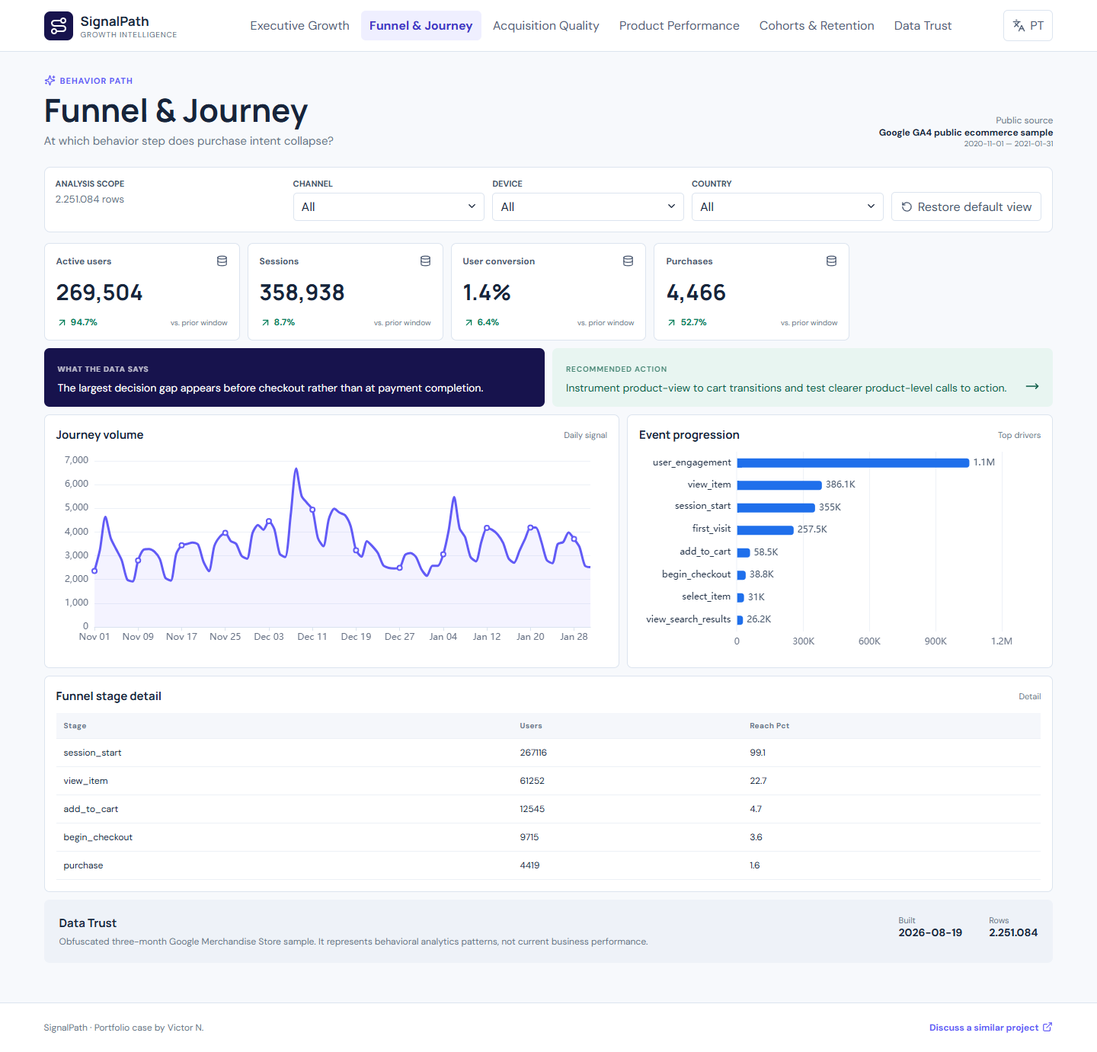
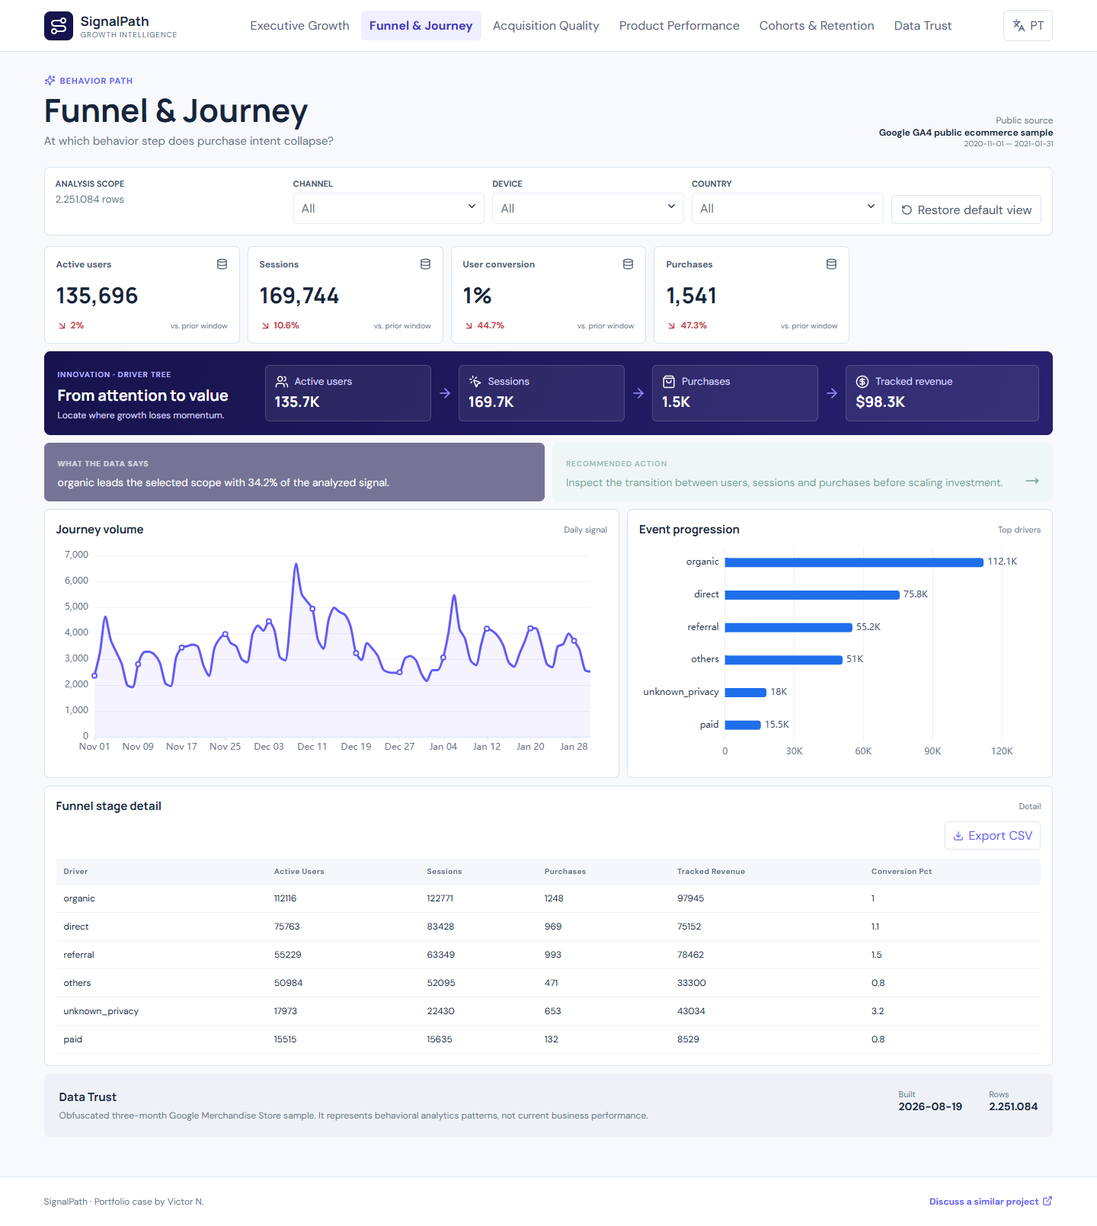
Improve growth storytelling and filter consistency

diff --git a/src/App.tsx b/src/App.tsx
@@ -4,6 +4,7 @@ import { BarChart, DataGrid, DecisionNote, MetricCard, TrendChart } from './comp
 import { ui } from './i18n'
 import { MartVerifier } from './MartVerifier'
 import { queryMart, type MartResult } from './queryMart'
+import { GrowthDriverTree } from './innovation'
 import type { DashboardData, Lang } from './types'
 
 export default function App() {
@@ -12,24 +13,32 @@ export default function App() {
   const [pageId, setPageId] = useState('executive')
   const [filters, setFilters] = useState({ channel: '', device: '', country: '' })
   const [mart, setMart] = useState<MartResult | null>(null)
+  const [queryState, setQueryState] = useState<'loading'|'ready'|'error'>('loading')
   useEffect(() => { fetch('./data/dashboard.json').then(r => r.json()).then(setData) }, [])
   useEffect(() => { localStorage.setItem('signalpath-lang', lang); document.documentElement.lang = lang === 'pt' ? 'pt-BR' : 'en' }, [lang])
-  useEffect(() => { let active=true; if (!filters.channel && !filters.device && !filters.country) { setMart(null); return }; queryMart(filters).then(result => active && setMart(result)).catch(error => { console.error('Unable to query the local analytics mart', error); if (active) setMart(null) }); return () => { active=false } }, [filters.channel, filters.device, filters.country])
+  useEffect(() => { let active=true; setQueryState('loading'); queryMart(filters,pageId).then(result=>{if(active){setMart(result);setQueryState('ready')}}).catch(error=>{console.error(error);if(active)setQueryState('error')});return()=>{active=false} }, [filters.channel, filters.device, filters.country, pageId])
   if (!data) return <main className="loading"><Activity className="spin" /> Loading SignalPath...</main>
   const page = data.pages.find(p => p.id === pageId) ?? data.pages[0]
   const metrics = page.metrics.map(metric => mart?.current[metric.id] === undefined ? metric : { ...metric, value: mart.current[metric.id], previous: mart.previous[metric.id] ?? metric.previous })
   const trend = mart?.trend.length ? mart.trend : page.trend
+  const breakdown = mart?.breakdown.length ? mart.breakdown : page.breakdown
+  const detail = mart?.detail.length ? mart.detail : page.detail
+  const finding = mart ? (lang==='pt'?`${mart.context.topDriver} lidera o recorte com ${(mart.context.topShare*100).toFixed(1)}% do sinal analisado.`:`${mart.context.topDriver} leads the selected scope with ${(mart.context.topShare*100).toFixed(1)}% of the analyzed signal.`) : page.finding[lang]
+  const action = mart ? (lang==='pt'?'Investigue a passagem entre usuários, sessões e compras antes de ampliar investimento.':'Inspect the transition between users, sessions and purchases before scaling investment.') : page.action[lang]
   const t = ui[lang]
-  const select = (label: string, key: keyof typeof filters, values: string[]) => <label className="filter"><span>{label}</span><div><select value={filters[key]} onChange={e => setFilters(v => ({ ...v, [key]: e.target.value }))}><option value="">{t.all}</option>{values.map(v => <option key={v}>{v}</option>)}</select><ChevronDown size={15} /></div></label>
+  const driverValues=Object.fromEntries(metrics.map(metric=>[metric.id,metric.value]))
+  const select = (label: string, key: keyof typeof filters, values: string[]) => <label className="filter"><span>{label}</span><div><select disabled={queryState==='loading'} value={filters[key]} onChange={e => setFilters(v => ({ ...v, [key]: e.target.value }))}><option value="">{t.all}</option>{values.map(v => <option key={v}>{v}</option>)}</select><ChevronDown size={15} /></div></label>
   return <div className="app-shell">
     <header className="topbar"><a className="brand" href="#top"><span className="brand-mark"><Route /></span><span><b>SignalPath</b><small>Growth Intelligence</small></span></a><nav>{data.pages.map(p => <button className={p.id === page.id ? 'active' : ''} onClick={() => setPageId(p.id)} key={p.id}>{p.title[lang]}</button>)}</nav><button className="language" onClick={() => setLang(lang === 'en' ? 'pt' : 'en')}><Languages size={17} />{lang === 'en' ? 'PT' : 'EN'}</button></header>
     <main id="top">
       <section className="page-head"><div><span className="eyebrow"><Sparkles size={15} />{page.eyebrow[lang]}</span><h1>{page.title[lang]}</h1><p>{page.question[lang]}</p></div><div className="source-stamp"><span>{t.source}</span><b>{data.meta.source}</b><small>{data.meta.period}</small></div></section>
       <section className="filterbar"><div className="filter-heading"><span>{t.filters}</span><small>{data.meta.rows.toLocaleString()} rows</small></div>{select(t.channel, 'channel', data.filters.channels)}{select(t.device, 'device', data.filters.devices)}{select(t.country, 'country', data.filters.countries)}<button className="reset" onClick={() => setFilters({ channel: '', device: '', country: '' })}><RotateCcw size={15} />{t.reset}</button></section>
       <section className="metrics">{metrics.map(metric => <MetricCard key={metric.id} metric={metric} lang={lang} prior={t.prior} />)}</section>
-      <section className="decision-strip"><DecisionNote title={t.finding}>{page.finding[lang]}</DecisionNote><DecisionNote title={t.action} action>{page.action[lang]}</DecisionNote></section>
-      <section className="analysis-grid"><article className="panel wide"><div className="panel-title"><h2>{page.trendTitle[lang]}</h2><span>Daily signal</span></div><TrendChart data={trend} lang={lang} /></article><article className="panel"><div className="panel-title"><h2>{page.breakdownTitle[lang]}</h2><span>Top drivers</span></div><BarChart data={page.breakdown} lang={lang} /></article></section>
-      <section className="panel detail"><div className="panel-title"><h2>{page.detailTitle[lang]}</h2><span>{t.details}</span></div><DataGrid rows={page.detail} /></section>
+      {queryState==='error'&&<div className="query-error" role="alert">{lang==='pt'?'O recorte não pôde ser recalculado. A visão base foi mantida.':'The selected scope could not be recalculated. The baseline view is shown.'}</div>}
+      <GrowthDriverTree values={mart?.current??driverValues} lang={lang}/>
+      <section className={`decision-strip ${queryState==='loading'?'is-loading':''}`}><DecisionNote title={t.finding}>{finding}</DecisionNote><DecisionNote title={t.action} action>{action}</DecisionNote></section>
+      <section className="analysis-grid"><article className="panel wide"><div className="panel-title"><h2>{page.trendTitle[lang]}</h2><span>Daily signal</span></div><TrendChart data={trend} lang={lang} /></article><article className="panel"><div className="panel-title"><h2>{page.breakdownTitle[lang]}</h2><span>Top drivers</span></div><BarChart data={breakdown} lang={lang} /></article></section>
+      <section className="panel detail"><div className="panel-title"><h2>{page.detailTitle[lang]}</h2><span>{t.details}</span></div><DataGrid rows={detail} /></section>
       <section className="trust"><div><h2>{t.trust}</h2><p>{data.meta.limitations[lang]}</p>{page.id === 'trust' && <MartVerifier file="mart_growth_sessions.parquet" lang={lang}/>}</div><div><span>Built</span><b>{data.meta.builtAt}</b></div><div><span>Rows</span><b>{data.meta.rows.toLocaleString()}</b></div></section>
     </main>
     <footer><span>SignalPath · Portfolio case by Victor N.</span><a href="mailto:comercial@wickoai.com.br">{t.contact}<ExternalLink size={14} /></a></footer>

diff --git a/src/queryMart.ts b/src/queryMart.ts
@@ -1,35 +1,45 @@
-import type { SeriesPoint } from './types'
+import type { BreakdownRow, SeriesPoint } from './types'
 
 export type FilterState = { channel: string; device: string; country: string }
-export type MartResult = { current: Record<string, number>; previous: Record<string, number>; trend: SeriesPoint[] }
+export type MartResult = {
+  current: Record<string, number>; previous: Record<string, number>; trend: SeriesPoint[]
+  breakdown: BreakdownRow[]; detail: Record<string, string | number>[]
+  context: { topDriver: string; topShare: number; rows: number }
+}
 
 let connectionPromise: Promise<import('@duckdb/duckdb-wasm').AsyncDuckDBConnection> | undefined
 const literal = (value: string) => `'${value.replaceAll("'", "''")}'`
 
 async function connection() {
   if (!connectionPromise) connectionPromise = (async () => {
-    const duckdb = await import('@duckdb/duckdb-wasm')
-    const bundle = await duckdb.selectBundle(duckdb.getJsDelivrBundles())
+    const duckdb = await import('@duckdb/duckdb-wasm'); const bundle = await duckdb.selectBundle(duckdb.getJsDelivrBundles())
     const workerUrl = URL.createObjectURL(new Blob([`importScripts("${bundle.mainWorker!}");`], { type: 'text/javascript' }))
-    const db = new duckdb.AsyncDuckDB(new duckdb.ConsoleLogger(), new Worker(workerUrl))
-    await db.instantiate(bundle.mainModule, bundle.pthreadWorker)
+    const db = new duckdb.AsyncDuckDB(new duckdb.ConsoleLogger(), new Worker(workerUrl)); await db.instantiate(bundle.mainModule, bundle.pthreadWorker)
     await db.registerFileURL('growth.parquet', new URL('./data/mart_growth_sessions.parquet', window.location.href).href, duckdb.DuckDBDataProtocol.HTTP, false)
     return db.connect()
   })()
   return connectionPromise
 }
 
-export async function queryMart(filters: FilterState): Promise<MartResult> {
+const records = (table: { toArray: () => Record<string, unknown>[] }) => table.toArray().map(row => Object.fromEntries(Object.entries(row).map(([key, value]) => [key, typeof value === 'bigint' ? Number(value) : value]))) as Record<string, string | number>[]
+
+let queryQueue: Promise<void> = Promise.resolve()
+export function queryMart(filters: FilterState, pageId: string): Promise<MartResult> {
+  const result = queryQueue.then(() => runQuery(filters, pageId))
+  queryQueue = result.then(() => undefined, () => undefined)
+  return result
+}
+async function runQuery(filters: FilterState, pageId: string): Promise<MartResult> {
   const con = await connection()
   const clauses = [filters.channel && `channel=${literal(filters.channel)}`, filters.device && `device=${literal(filters.device)}`, filters.country && `country=${literal(filters.country)}`].filter(Boolean)
   const where = clauses.length ? `where ${clauses.join(' and ')}` : ''
   const metricSql = (period: 'current'|'previous') => `with base as (select * from read_parquet('growth.parquet') ${where}), bounds as (select min(event_date) lo,max(event_date) hi from base), scoped as (select b.* from base b,bounds where event_date ${period === 'current' ? '>=' : '<'} lo+((hi-lo)/2)::integer) select count(distinct user_id)::double users,count(*)::double sessions,count(distinct user_id) filter(where purchased=1)::double purchasers,sum(purchases)::double orders,sum(revenue)::double revenue,count(distinct event_date)::double active_days from scoped`
-  const readMetrics = async (sql: string) => {
-    const row = (await con.query(sql)).get(0) as Record<string, unknown>
-    const users=Number(row.users??0), purchasers=Number(row.purchasers??0)
-    return { users, sessions:Number(row.sessions??0), conversion:users?purchasers/users:0, orders:Number(row.orders??0), revenue:Number(row.revenue??0), days:Number(row.active_days??0) }
-  }
-  const current=await readMetrics(metricSql('current')), previous=await readMetrics(metricSql('previous'))
-  const table=await con.query(`select strftime(event_date,'%b %d') as period_label,count(distinct user_id)::double as metric_value from read_parquet('growth.parquet') ${where} group by event_date order by event_date`)
-  return { current, previous, trend: table.toArray().map(row => ({ label:String(row.period_label), value:Number(row.metric_value) })) }
+  const readMetrics = async (sql: string) => { const row=(await con.query(sql)).get(0) as Record<string,unknown>; const users=Number(row.users??0),purchasers=Number(row.purchasers??0); return {users,sessions:Number(row.sessions??0),conversion:users?purchasers/users:0,orders:Number(row.orders??0),revenue:Number(row.revenue??0),days:Number(row.active_days??0)} }
+  const current=await readMetrics(metricSql('current')),previous=await readMetrics(metricSql('previous'))
+  const trendTable=await con.query(`select strftime(event_date,'%b %d') period_label,count(distinct user_id)::double metric_value from read_parquet('growth.parquet') ${where} group by event_date order by event_date`)
+  const dimension=pageId==='retention'?'device':pageId==='trust'?'country':'channel'
+  const breakdownTable=await con.query(`select ${dimension} as driver_name,count(distinct user_id)::double as driver_value from read_parquet('growth.parquet') ${where} group by 1 order by driver_value desc limit 12`)
+  const detailTable=await con.query(`select ${dimension} driver,count(distinct user_id)::double active_users,count(*)::double sessions,sum(purchases)::double purchases,round(sum(revenue),2)::double tracked_revenue,round(100*count(distinct user_id) filter(where purchased=1)/nullif(count(distinct user_id),0),1)::double conversion_pct from read_parquet('growth.parquet') ${where} group by 1 order by active_users desc limit 20`)
+  const detail=records(detailTable),breakdown=records(breakdownTable).map(row=>({name:String(row.driver_name??'Unknown'),value:Number(row.driver_value??0)})); const total=breakdown.reduce((sum,row)=>sum+row.value,0)
+  return {current,previous,trend:trendTable.toArray().map(row=>({label:String(row.period_label),value:Number(row.metric_value)})),breakdown,detail,context:{topDriver:breakdown[0]?.name??'N/A',topShare:total?breakdown[0].value/total:0,rows:current.sessions}}
 }

diff --git a/src/components.tsx b/src/components.tsx
@@ -5,8 +5,9 @@ import { BarChart as EBarChart, LineChart as ELineChart } from 'echarts/charts'
 import { GridComponent, TooltipComponent } from 'echarts/components'
 import { CanvasRenderer } from 'echarts/renderers'
 import { LegacyGridContainLabel } from 'echarts/features'
-import { flexRender, getCoreRowModel, useReactTable } from '@tanstack/react-table'
-import { ArrowDownRight, ArrowUpRight, Database, MoveRight } from 'lucide-react'
+import { flexRender, getCoreRowModel, getSortedRowModel, useReactTable, type SortingState } from '@tanstack/react-table'
+import { ArrowDownRight, ArrowUpRight, Database, Download, MoveRight } from 'lucide-react'
+import { useState } from 'react'
 import type { Lang, Metric, SeriesPoint, BreakdownRow } from './types'
 
 echarts.use([EBarChart, ELineChart, GridComponent, TooltipComponent, LegacyGridContainLabel, CanvasRenderer])
@@ -31,20 +32,23 @@ export function MetricCard({ metric, lang, prior }: { metric: Metric; lang: Lang
 
 export function TrendChart({ data, lang }: { data: SeriesPoint[]; lang: Lang }) {
   const option = { animationDuration: 450, grid: { left: 12, right: 22, top: 24, bottom: 18, containLabel: true }, tooltip: { trigger: 'axis', valueFormatter: (v: number) => new Intl.NumberFormat(lang === 'pt' ? 'pt-BR' : 'en-US').format(v) }, xAxis: { type: 'category', data: data.map(d => d.label), boundaryGap: false, axisLine: { lineStyle: { color: '#d9e2ef' } }, axisLabel: { color: '#697386' } }, yAxis: { type: 'value', splitLine: { lineStyle: { color: '#edf1f7' } }, axisLabel: { color: '#697386' } }, series: [{ type: 'line', data: data.map(d => d.value), smooth: .25, symbolSize: 6, lineStyle: { width: 3, color: '#625bf6' }, itemStyle: { color: '#625bf6' }, areaStyle: { color: 'rgba(98,91,246,.10)' } }] }
-  return <ReactEChartsCore echarts={echarts} option={option} style={{ height: 280 }} />
+  return <div className="chart-viewport"><ReactEChartsCore echarts={echarts} option={option} style={{ height: 300, width:'100%' }} /></div>
 }
 
 export function BarChart({ data, lang }: { data: BreakdownRow[]; lang: Lang }) {
   const sorted = [...data].sort((a,b) => a.value - b.value).slice(-8)
   const compact = (value: number) => new Intl.NumberFormat(lang === 'pt' ? 'pt-BR' : 'en-US', { notation: 'compact', maximumFractionDigits: 1 }).format(value)
   const option = { animationDuration: 450, grid: { left: 12, right: 52, top: 12, bottom: 12, containLabel: true }, tooltip: { trigger: 'axis', axisPointer: { type: 'shadow' } }, xAxis: { type: 'value', splitNumber: 4, splitLine: { lineStyle: { color: '#edf1f7' } }, axisLabel: { color: '#697386', formatter: compact } }, yAxis: { type: 'category', data: sorted.map(d => d.name), axisLine: { show: false }, axisTick: { show: false }, axisLabel: { color: '#27364b', width: 120, overflow: 'truncate' } }, series: [{ type: 'bar', data: sorted.map(d => d.value), barWidth: 12, itemStyle: { color: '#1f6feb', borderRadius: [0, 4, 4, 0] }, label: { show: true, position: 'right', color: '#415269', formatter: (p: { value: number }) => compact(p.value) } }] }
-  return <ReactEChartsCore echarts={echarts} option={option} style={{ height: 280 }} />
+  return <div className="chart-viewport"><ReactEChartsCore echarts={echarts} option={option} style={{ height: 300, width:'100%' }} /></div>
 }
 
 export function DataGrid({ rows }: { rows: Record<string, string | number>[] }) {
+  const [sorting,setSorting]=useState<SortingState>([])
   const columns = useMemo(() => Object.keys(rows[0] ?? {}).map(key => ({ accessorKey: key, header: key.replaceAll('_', ' ') })), [rows])
-  const table = useReactTable({ data: rows, columns, getCoreRowModel: getCoreRowModel() })
-  return <div className="table-wrap"><table><thead>{table.getHeaderGroups().map(group => <tr key={group.id}>{group.headers.map(h => <th key={h.id}>{flexRender(h.column.columnDef.header, h.getContext())}</th>)}</tr>)}</thead><tbody>{table.getRowModel().rows.slice(0, 10).map(row => <tr key={row.id}>{row.getVisibleCells().map(cell => <td key={cell.id}>{String(cell.getValue() ?? '')}</td>)}</tr>)}</tbody></table></div>
+  const table=useReactTable({data:rows,columns,state:{sorting},onSortingChange:setSorting,getCoreRowModel:getCoreRowModel(),getSortedRowModel:getSortedRowModel()})
+  const download=()=>{const keys=Object.keys(rows[0]??{}),csv=[keys.join(','),...rows.map(row=>keys.map(k=>JSON.stringify(row[k]??'')).join(','))].join('\n');const a=document.createElement('a');a.href=URL.createObjectURL(new Blob([csv],{type:'text/csv'}));a.download='signalpath-detail.csv';a.click();URL.revokeObjectURL(a.href)}
+  if(!rows.length)return <div className="empty-state">No data for this scope.</div>
+  return <><button className="export" onClick={download}><Download size={14}/>Export CSV</button><div className="table-wrap"><table><thead>{table.getHeaderGroups().map(group => <tr key={group.id}>{group.headers.map(h => <th key={h.id} onClick={h.column.getToggleSortingHandler()}>{flexRender(h.column.columnDef.header, h.getContext())}{h.column.getIsSorted()==='asc'?' ↑':h.column.getIsSorted()==='desc'?' ↓':''}</th>)}</tr>)}</thead><tbody>{table.getRowModel().rows.slice(0,20).map(row=><tr key={row.id}>{row.getVisibleCells().map(cell=><td key={cell.id}>{String(cell.getValue()??'')}</td>)}</tr>)}</tbody></table></div></>
 }
 
 export function DecisionNote({ title, children, action = false }: { title: string; children: React.ReactNode; action?: boolean }) {

diff --git a/src/styles.css b/src/styles.css
@@ -3,3 +3,5 @@
 @media(max-width:1000px){.topbar{padding:0 20px}.brand{min-width:auto}.brand span:last-child{display:none}.metrics{grid-template-columns:repeat(3,1fr)}.filterbar{grid-template-columns:1fr 1fr}.filter-heading{grid-column:1/-1}.analysis-grid{grid-template-columns:1fr}}
 @media(max-width:640px){.topbar{height:auto;flex-wrap:wrap;padding:10px 14px}.topbar nav{order:3;width:100%;padding-top:8px}.language{margin-left:auto}main{padding:22px 14px}.page-head{align-items:flex-start;flex-direction:column}.source-stamp{text-align:left}.filterbar{grid-template-columns:1fr}.filter-heading{grid-column:auto}.metrics{grid-template-columns:1fr 1fr}.decision-strip{grid-template-columns:1fr}.metric-card{min-height:114px}.delta small{display:none}.trust{grid-template-columns:1fr}footer{flex-direction:column;gap:12px}}
 .mart-verify{margin-top:12px;border:1px solid var(--line);background:#fff;color:var(--accent);border-radius:5px;padding:8px 10px;display:flex;align-items:center;gap:7px;font-weight:700;font-size:11px;cursor:pointer}.mart-verify.ready{color:var(--green)}.mart-verify.error{color:var(--red)}
+@media(max-width:900px){.driver-tree .driver-nodes{display:grid;grid-template-columns:1fr 1fr;gap:8px;overflow:visible}.driver-tree .driver-step article{min-width:0;height:100%}.driver-tree .driver-arrow{display:none}}@media(max-width:640px){.panel-title{align-items:flex-start;gap:8px}.panel-title span{text-align:right;max-width:100px}}
+.chart-viewport{width:100%;min-width:0;overflow:hidden}.query-error{margin:10px 0;padding:11px 14px;border:1px solid #efb5ba;background:#fff2f3;color:var(--red);border-radius:7px;font-size:13px}.is-loading{opacity:.58}.export{margin-top:10px;margin-left:auto;display:flex;align-items:center;gap:6px;border:1px solid var(--line);background:#fff;color:var(--accent);border-radius:5px;padding:7px 10px;cursor:pointer}.empty-state{padding:35px;text-align:center;color:var(--muted)}th{cursor:pointer}.driver-tree{display:grid;grid-template-columns:250px 1fr;gap:22px;align-items:center;margin:10px 0;padding:18px;background:linear-gradient(120deg,#17134d,#28216f);color:#fff;border-radius:8px}.driver-copy span{font-size:10px;letter-spacing:.08em;color:#b8b3ff;font-weight:700}.driver-copy h2{font:700 20px Manrope;margin:5px 0}.driver-copy p{font-size:12px;color:#d8d6ff;margin:0}.driver-nodes,.driver-step{display:flex;align-items:center;min-width:0}.driver-nodes{justify-content:space-between}.driver-step{flex:1}.driver-step article{min-width:0;flex:1;padding:12px;border:1px solid rgba(255,255,255,.16);background:rgba(255,255,255,.07);border-radius:6px;display:grid;grid-template-columns:auto 1fr;gap:4px 8px}.driver-step small{color:#d8d6ff}.driver-step strong{grid-column:1/-1;font:700 19px Manrope}.driver-arrow{margin:0 8px;color:#918bf5;flex:none}@media(max-width:900px){.driver-tree{grid-template-columns:1fr}.driver-nodes{overflow:auto}.driver-step article{min-width:145px}}

diff --git a/src/innovation.tsx b/src/innovation.tsx
@@ -1,0 +1,4 @@
+import { ArrowRight, CircleDollarSign, MousePointerClick, ShoppingBag, Users } from 'lucide-react'
+import type { Lang } from './types'
+const compact=(value:number,lang:Lang)=>new Intl.NumberFormat(lang==='pt'?'pt-BR':'en-US',{notation:'compact',maximumFractionDigits:1}).format(value)
+export function GrowthDriverTree({values,lang}:{values:Record<string,number>;lang:Lang}){const nodes=[{label:lang==='pt'?'Usuários ativos':'Active users',value:values.users,icon:Users},{label:lang==='pt'?'Sessões':'Sessions',value:values.sessions,icon:MousePointerClick},{label:lang==='pt'?'Compras':'Purchases',value:values.orders,icon:ShoppingBag},{label:lang==='pt'?'Receita rastreada':'Tracked revenue',value:values.revenue,icon:CircleDollarSign,money:true}];return <section className="driver-tree" aria-label={lang==='pt'?'Árvore de direcionadores de crescimento':'Growth driver tree'}><div className="driver-copy"><span>{lang==='pt'?'INOVAÇÃO · ÁRVORE DE DRIVERS':'INNOVATION · DRIVER TREE'}</span><h2>{lang==='pt'?'Da atenção ao valor':'From attention to value'}</h2><p>{lang==='pt'?'Localize onde o crescimento perde força.':'Locate where growth loses momentum.'}</p></div><div className="driver-nodes">{nodes.map(({label,value,icon:Icon,money},index)=><div className="driver-step" key={label}><article><Icon size={18}/><small>{label}</small><strong>{money?'$':''}{compact(value??0,lang)}</strong></article>{index<nodes.length-1&&<ArrowRight className="driver-arrow" size={20}/>}</div>)}</div></section>}

diff --git a/README.md b/README.md
@@ -52,3 +52,6 @@ Validate with `python -m pipeline validate`, `pytest`, `npm test`, `npm run buil
 The same model can connect to a company's GA4 export, backend orders, media costs, and experimentation data. [Discuss a similar project](mailto:comercial@wickoai.com.br).
 
 See also [Portuguese documentation](README.pt-BR.md), [complete dashboard guide](docs/DASHBOARD_GUIDE.md), [metric catalog](docs/METRIC_CATALOG.md), and [demo guide](docs/DEMO_GUIDE.md).
+# Design innovation
+
+The **Growth Driver Tree** links active users, sessions, purchases, and tracked revenue in one decision path. It is recalculated with every filter and is designed to reveal where growth loses momentum before a team scales acquisition.

diff --git a/docs/DASHBOARD_GUIDE.pt-BR.md b/docs/DASHBOARD_GUIDE.pt-BR.md
@@ -90,4 +90,7 @@ Cada card mostra valor atual, direção, variação percentual e comparação co
 ## Limites
 
 Os dados são históricos e ofuscados; associação de canal não é causalidade; receita não é lucro; retorno em vários dias não é retenção contratual; e uma demo pública não substitui controles de produção.
+# Interação principal: Árvore de Drivers
+
+Leia da esquerda para a direita. Uma base grande de usuários e sessões com forte queda em compras indica atrito na jornada ou no merchandising; compras saudáveis com receita fraca indicam problema de mix ou ticket. Todos os nós, gráficos, tabela, achado e ação usam o mesmo recorte filtrado.
 

diff --git a/docs/DASHBOARD_GUIDE.md b/docs/DASHBOARD_GUIDE.md
@@ -104,4 +104,7 @@ Each KPI card contains the current value, direction, percentage change, and prio
 - Tracked revenue is not profit.
 - Multi-day activity is not subscription retention.
 - A public demo does not replace production identity, privacy, observability, or access controls.
+# Signature interaction: Growth Driver Tree
+
+Read the tree from left to right. A large user-to-session base with a sharp purchase drop points to journey or merchandising friction; a healthy purchase count with weak revenue points to order-value mix. Every node, chart, table, finding, and action uses the same filtered scope.
 

diff --git a/README.pt-BR.md b/README.pt-BR.md
@@ -32,3 +32,6 @@ npm run dev
 ```
 
 O case demonstra granularidade correta, reconciliação de compras, catálogo de métricas, interface responsiva em dois idiomas e limitações visíveis. Para adaptar a solução a GA4, pedidos, mídia e testes de uma empresa real: [contato](mailto:comercial@wickoai.com.br).
+# Inovação de design
+
+A **Árvore de Drivers de Crescimento** conecta usuários ativos, sessões, compras e receita rastreada em um único caminho decisório. Ela é recalculada com cada filtro e mostra onde o crescimento perde força antes de ampliar aquisição.
